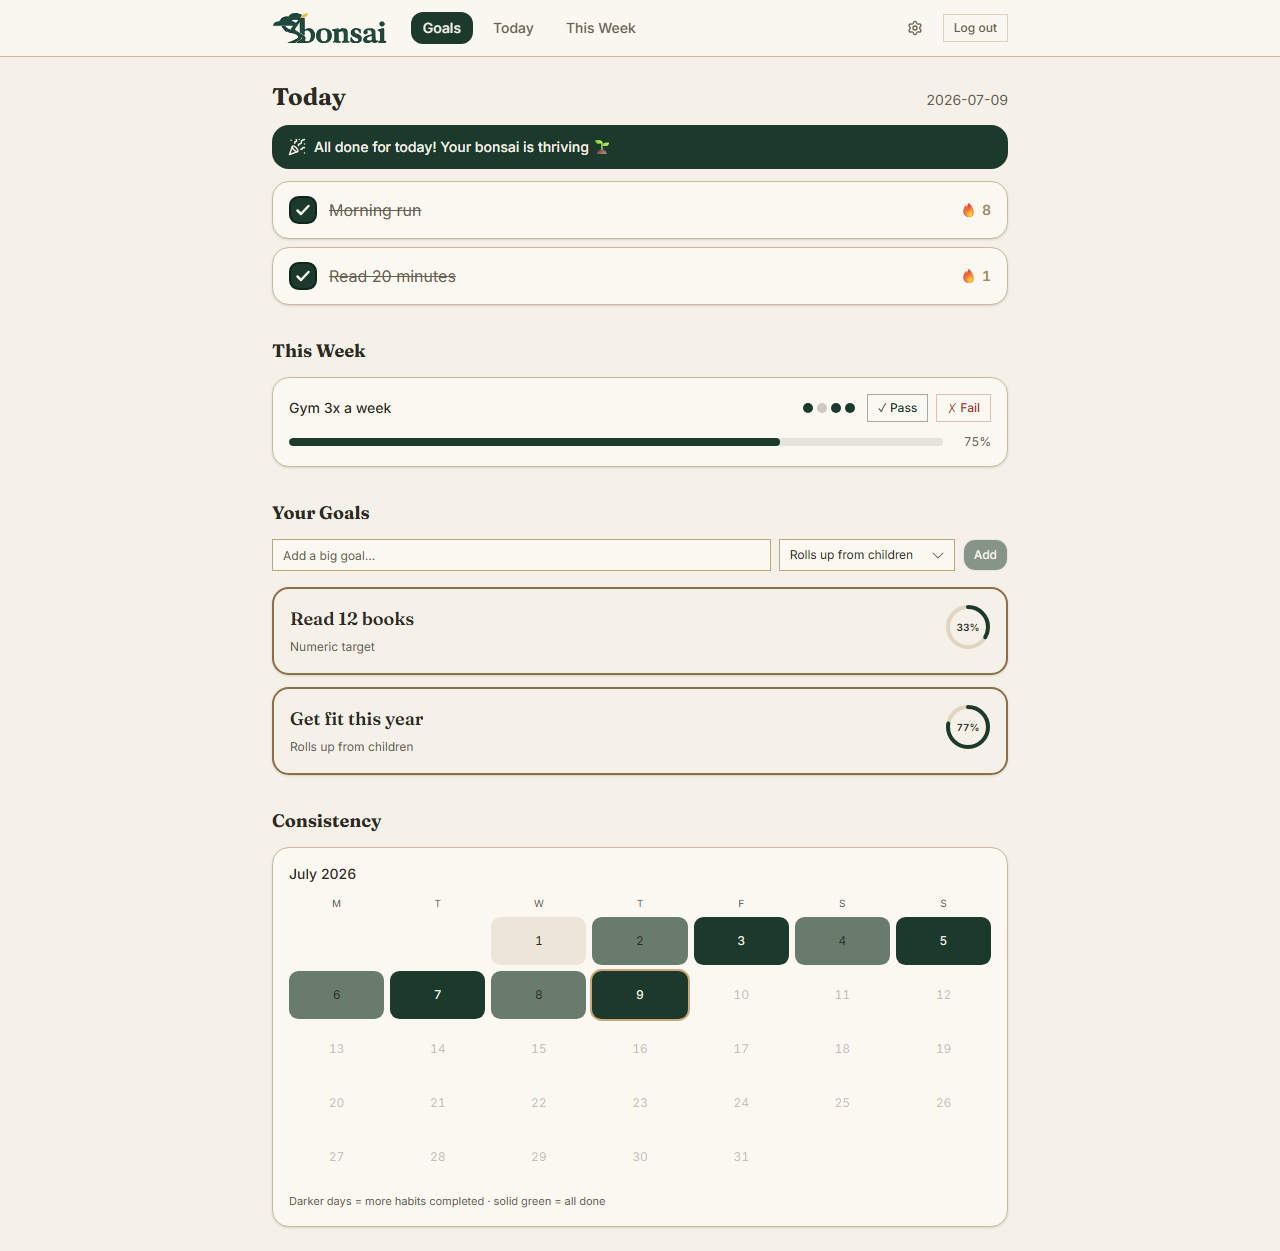
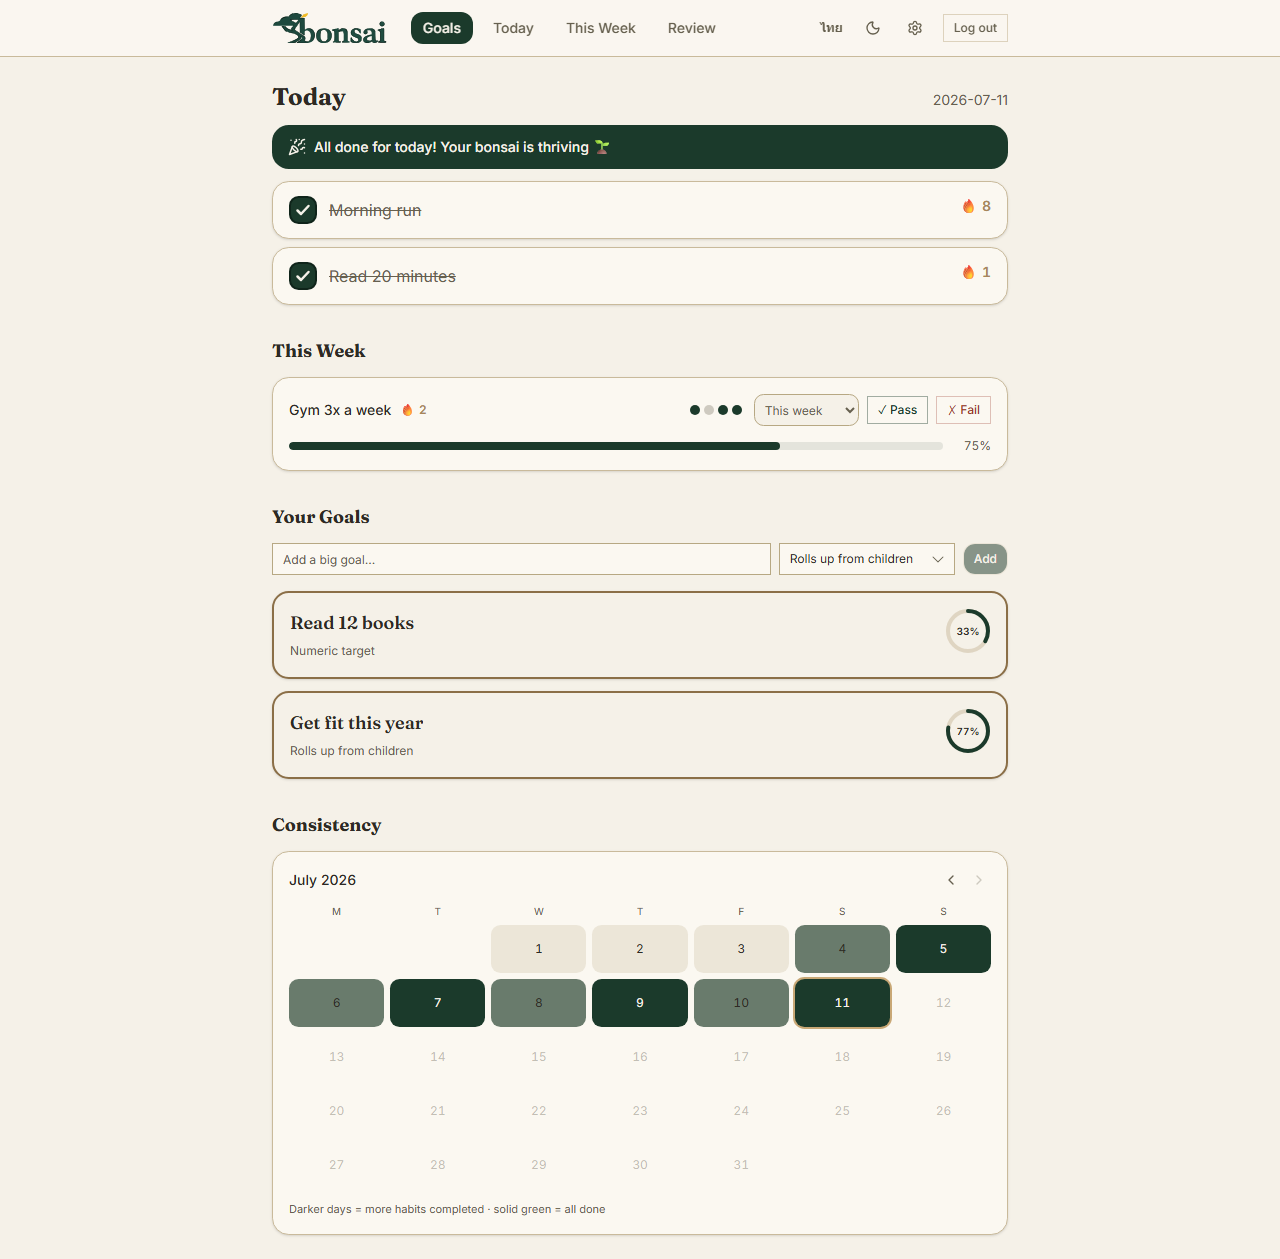
CI: auto-refresh README screenshots on every push to main/master
Adds a screenshots job that runs after e2e passes: seeds a fresh account
(all dates computed relative to "today", never hardcoded) via
web/e2e-readme-screenshots.mjs, captures the dashboard/today/graph views
with Playwright, and commits any changed PNGs straight back to the branch.
paths-ignore on docs/screenshots/** (plus a "[skip ci]" commit message)
stops that commit from re-triggering the workflow. Runs only on push
events, since a PR's GITHUB_TOKEN can't push back to the branch.

diff --git a/README.md b/README.md
@@ -65,6 +65,8 @@ Most goal apps store goals as a flat list, but real goals are trees: "get fit th
 
 Separating the math into pure classes keeps almost all of these tests free of MongoDB mocks. CI runs them on every push, builds the frontend, and then boots the whole Docker Compose stack to run a Playwright browser smoke test against it. The local `web/e2e-*.mjs` scripts cover more flows, including a regression test that drags a node, clicks empty canvas, and asserts zero position drift.
 
+The three screenshots at the top of this README are themselves CI output: after `e2e` passes on a push to `main`/`master`, a `screenshots` job seeds a fresh account (dates computed relative to "today", never hardcoded), captures the dashboard/today/graph views with Playwright, and commits any changed PNGs straight back to the branch — so they never drift from the current UI. See [`web/e2e-readme-screenshots.mjs`](web/e2e-readme-screenshots.mjs) and the `screenshots` job in [`.github/workflows/ci.yml`](.github/workflows/ci.yml).
+
 ## AI integration (BYOK)
 
 `POST /goals/breakdown` asks an LLM to split a goal into a tree whose **depth the model chooses** (capped at 6 levels) based on the goal's real complexity. The structured output is a *flat* item list — `{ tempId, parentTempId, title, progressType, weeklyTarget? }` — which sidesteps the no-recursive-schema limitation of every provider's structured-output mode. [`BreakdownTreeBuilder.cs`](api/Bonsai.Api/Services/Llm/BreakdownTreeBuilder.cs) (pure, unit-tested) then validates the list — single root, no unknown/duplicate references, no cycles, depth ≤ 6 — and materialises it parents-first into real goal documents with correct `parentId`/`ancestors` links. Invalid model output is rejected with a clean error, never a crash.